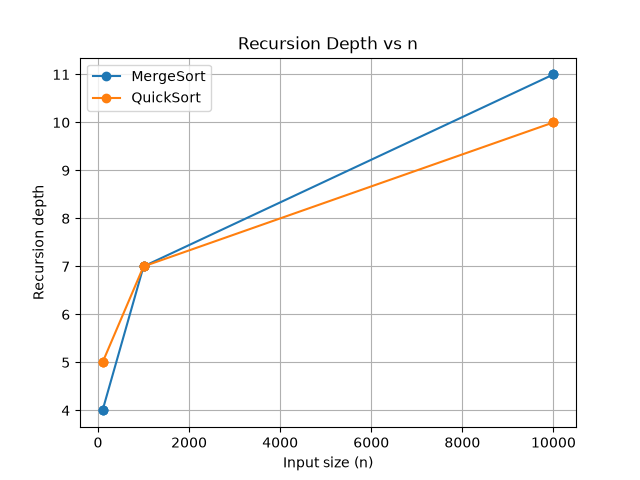
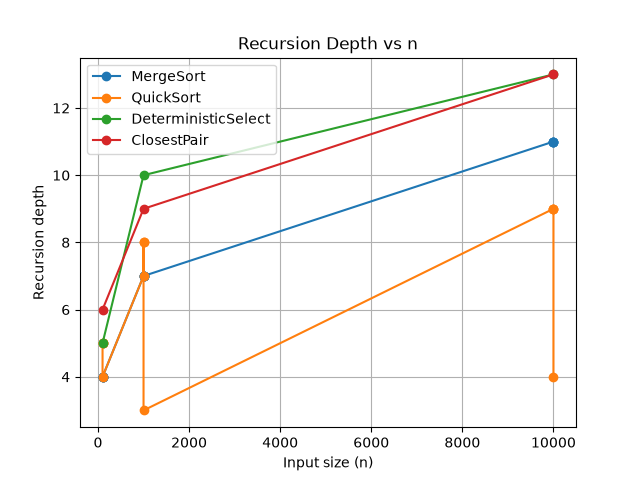
feat(metrics): update experiments for all algorithms

diff --git a/src/Experiment.java b/src/Experiment.java
@@ -6,7 +6,7 @@ public class Experiment {
 
     public static void main(String[] args) throws IOException {
 
-        FileWriter file = new FileWriter("results.csv");
+        FileWriter file = new FileWriter("results/results.csv");
 
         file.write("Algorithm,Type,Size,Time,Depth,Comparisons\n");
 
@@ -14,76 +14,109 @@ public class Experiment {
 
         for (int size : sizes) {
 
-            testMerge(randomArray(size), "Random", file);
-            testMerge(sortedArray(size), "Sorted", file);
-            testMerge(reverseArray(size), "Reverse", file);
+            testSorts(randomArray(size), "Random", file);
+            testSorts(sortedArray(size), "Sorted", file);
+            testSorts(reverseArray(size), "Reverse", file);
+            testSorts(duplicateArray(size), "Duplicate", file);
 
-            testQuick(randomArray(size), "Random", file);
-            testQuick(sortedArray(size), "Sorted", file);
-            testQuick(reverseArray(size), "Reverse", file);
+            testSelect(size, file);
+            testClosest(size, file);
         }
 
         file.close();
 
         System.out.println("Experiments finished.");
-        System.out.println("results.csv created.");
+        System.out.println("results.csv updated.");
     }
 
-    private static void testMerge(
+    private static void testSorts(
             int[] a,
             String type,
             FileWriter file) throws IOException {
 
-        MergeSorter sort = new MergeSorter();
+        int[] m = a.clone();
+        MergeSorter merge = new MergeSorter();
 
         long start = System.nanoTime();
-        sort.sort(a);
+        merge.sort(m);
         long time = System.nanoTime() - start;
 
-        file.write(
-                "MergeSort," +
-                        type + "," +
-                        a.length + "," +
-                        time + "," +
-                        sort.maxDepth + "," +
-                        sort.comparisons + "\n"
-        );
+        file.write("MergeSort," + type + "," + a.length + ","
+                + time + "," + merge.maxDepth + ","
+                + merge.comparisons + "\n");
+
+
+        int[] q = a.clone();
+        QuickSorter quick = new QuickSorter();
+
+        start = System.nanoTime();
+        quick.sort(q);
+        time = System.nanoTime() - start;
+
+        file.write("QuickSort," + type + "," + a.length + ","
+                + time + "," + quick.maxDepth + ","
+                + quick.comparisons + "\n");
     }
 
-    private static void testQuick(
-            int[] a,
-            String type,
+    private static void testSelect(
+            int size,
             FileWriter file) throws IOException {
 
-        QuickSorter sort = new QuickSorter();
+        int[] a = randomArray(size);
+
+        DeterministicSelector select =
+                new DeterministicSelector();
 
         long start = System.nanoTime();
-        sort.sort(a);
+
+        select.select(a, size / 2);
+
         long time = System.nanoTime() - start;
 
-        file.write(
-                "QuickSort," +
-                        type + "," +
-                        a.length + "," +
-                        time + "," +
-                        sort.maxDepth + "," +
-                        sort.comparisons + "\n"
-        );
+        file.write("DeterministicSelect,Random," + size + ","
+                + time + "," + select.maxDepth + ","
+                + select.comparisons + "\n");
+    }
+
+    private static void testClosest(
+            int size,
+            FileWriter file) throws IOException {
+
+        Point[] points = new Point[size];
+        Random r = new Random();
+
+        for (int i = 0; i < size; i++) {
+            points[i] = new Point(
+                    r.nextDouble() * size,
+                    r.nextDouble() * size
+            );
+        }
+
+        ClosestPairSolver solver =
+                new ClosestPairSolver();
+
+        long start = System.nanoTime();
+
+        solver.findClosest(points);
+
+        long time = System.nanoTime() - start;
+
+        file.write("ClosestPair,Random," + size + ","
+                + time + "," + solver.maxDepth + ","
+                + solver.comparisons + "\n");
     }
 
     private static int[] randomArray(int n) {
-
-        Random random = new Random();
+        Random r = new Random();
         int[] a = new int[n];
 
         for (int i = 0; i < n; i++)
-            a[i] = random.nextInt(n);
+            a[i] = r.nextInt(n);
 
         return a;
     }
 
     private static int[] sortedArray(int n) {
-
         int[] a = new int[n];
 
         for (int i = 0; i < n; i++)
@@ -93,11 +126,20 @@ public class Experiment {
     }
 
     private static int[] reverseArray(int n) {
-
         int[] a = new int[n];
 
         for (int i = 0; i < n; i++)
             a[i] = n - i;
+
+        return a;
+    }
+
+    private static int[] duplicateArray(int n) {
+        Random r = new Random();
+        int[] a = new int[n];
+
+        for (int i = 0; i < n; i++)
+            a[i] = r.nextInt(5);
 
         return a;
     }
